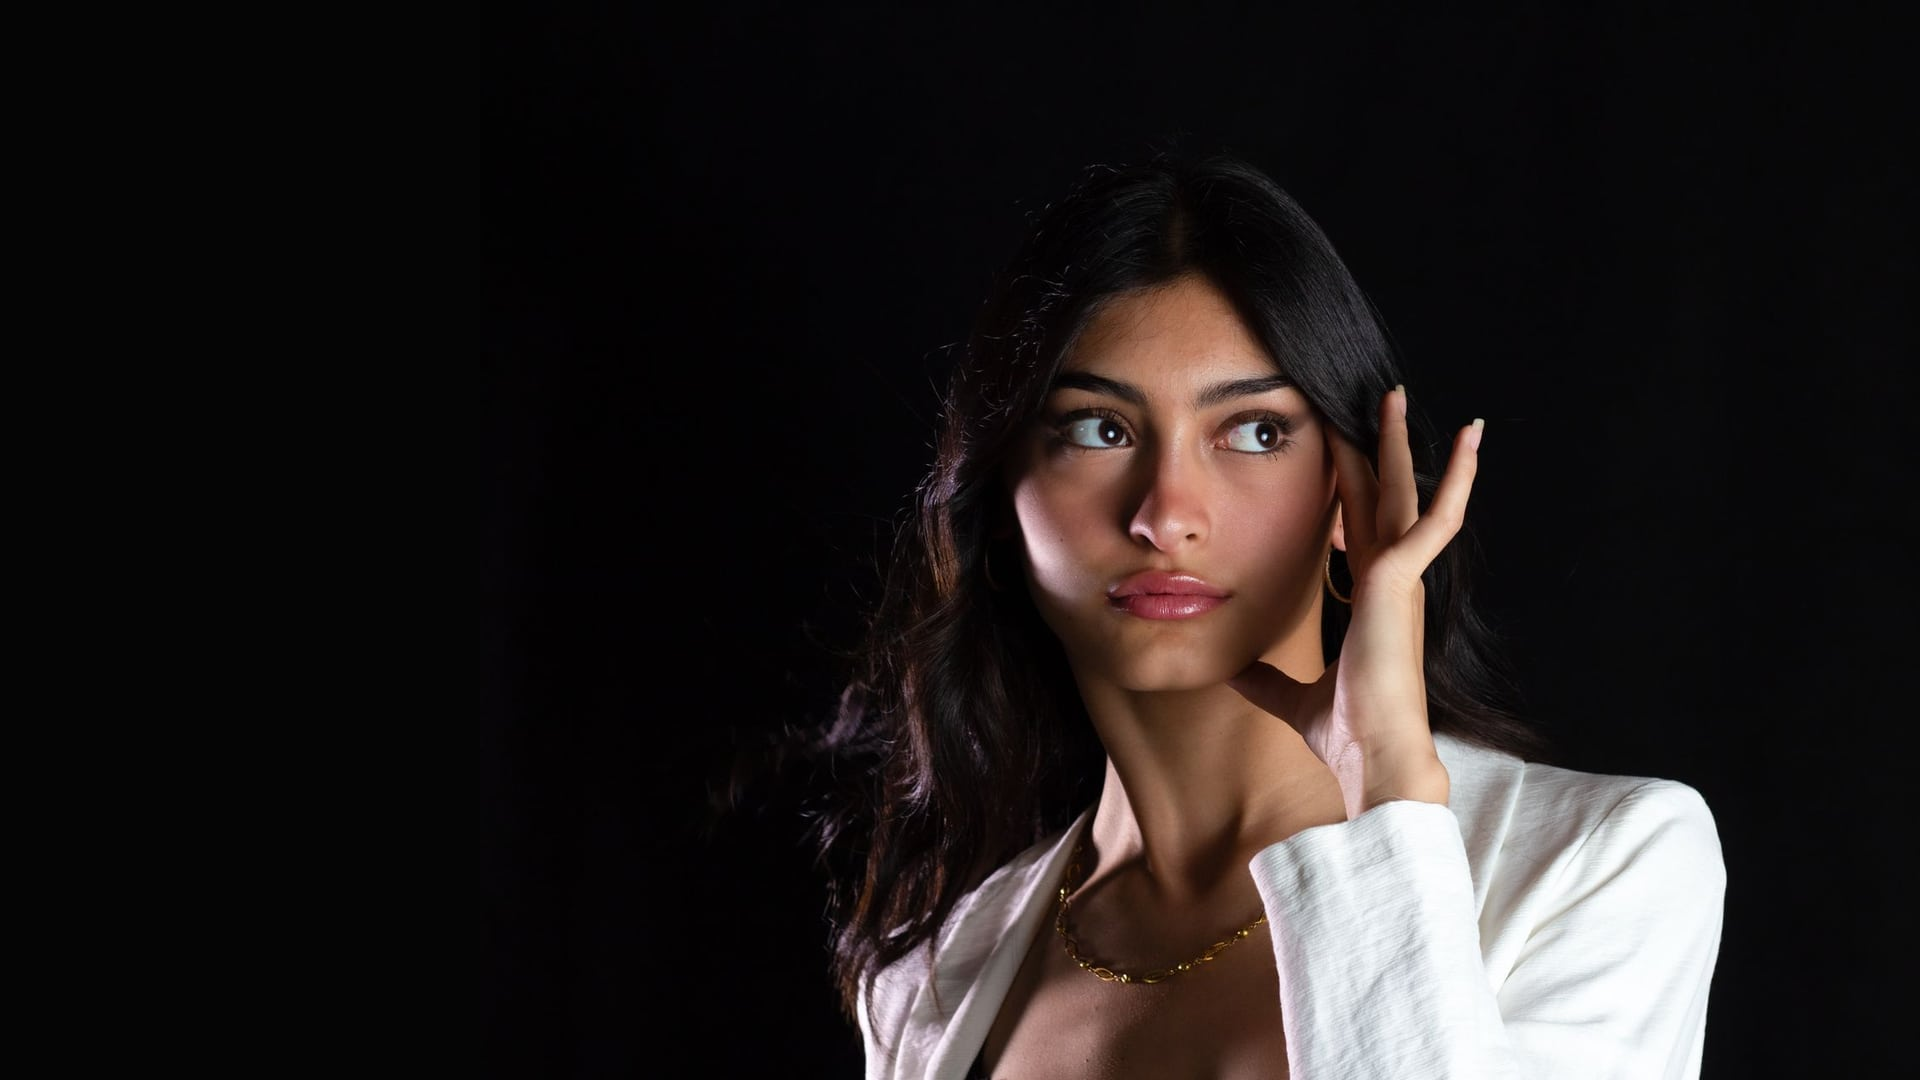
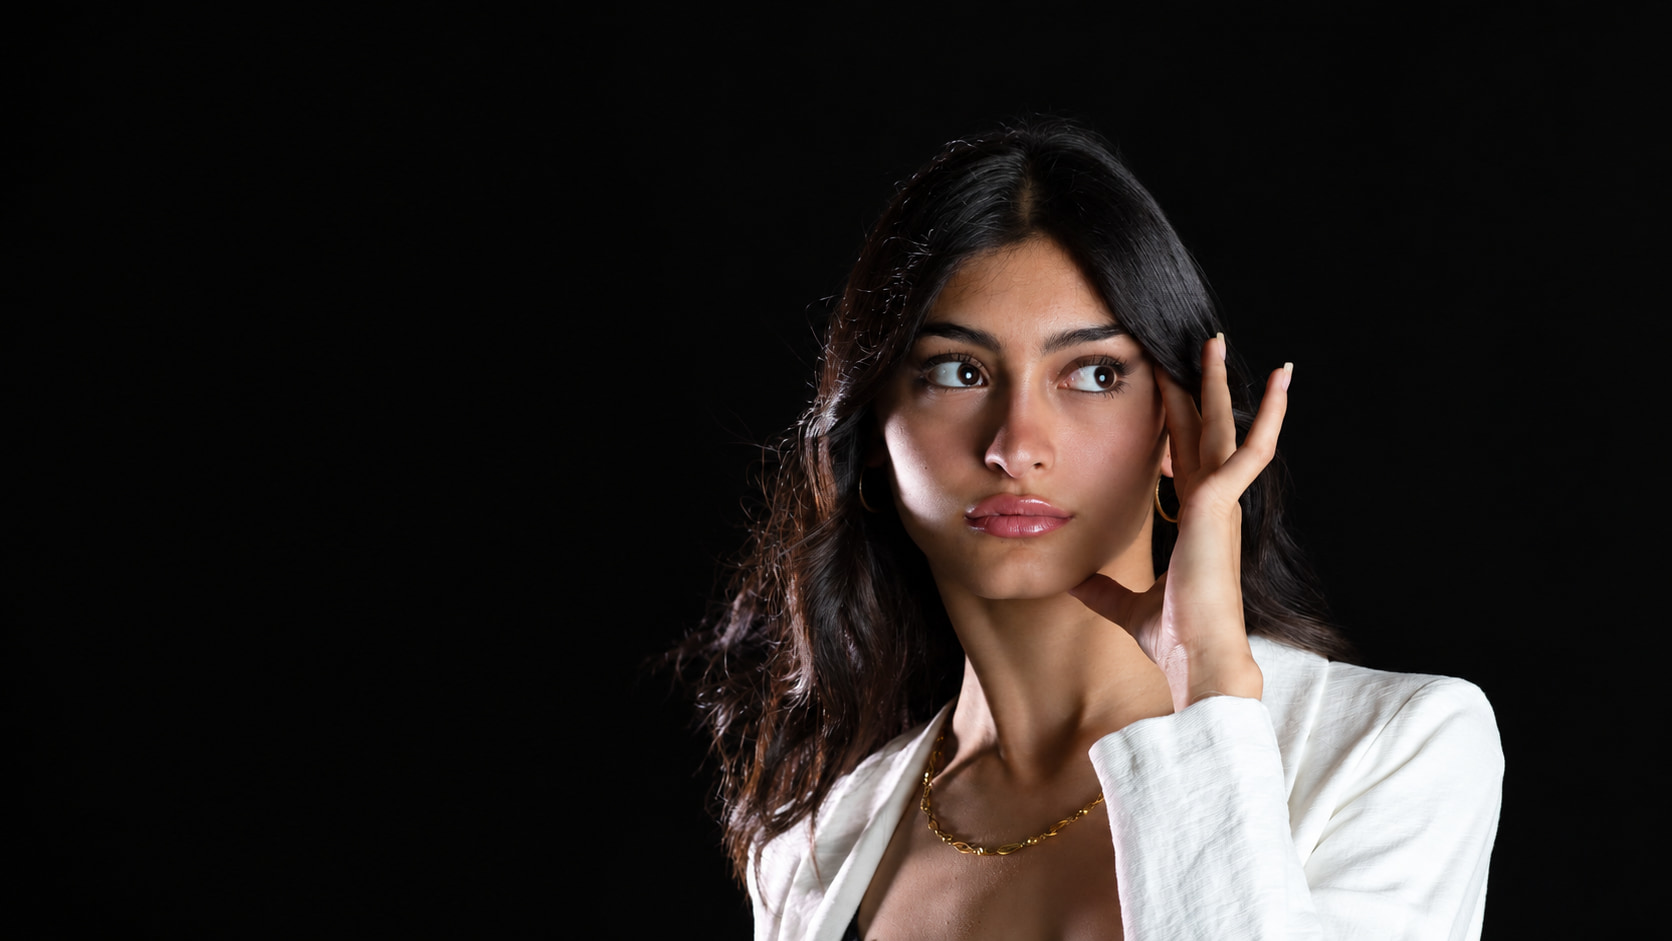
feat: refresh hero image and improve rendering quality
Add the source image and refreshed JPEG, render the hero with a static import
and higher image quality, and align metadata dimensions. Preserve the manual
asset when downloading the remaining photographs and document its origin.

diff --git a/app/page.tsx b/app/page.tsx
@@ -15,6 +15,7 @@ import { ActionContent, ButtonLink } from "@/components/ui";
 import { HomeMotion } from "@/components/home-motion";
 import { HomeFAQ } from "@/components/home-faq";
 import styles from "./home.module.css";
+import heroImage from "@/public/images/hero-salon.jpg";
 
 const heroTitle = `${site.hero.title.opening} ${site.hero.title.emphasis}`;
 export const metadata = pageMetadata(
@@ -48,10 +49,11 @@ export default function Home() {
         aria-label="Livre Beauty, salão e ateliê de beleza"
       >
         <Image
-          src="/images/hero-salon.jpg"
+          src={heroImage}
           alt="Retrato editorial com cabelo escuro e luz suave"
           fill
           preload
+          quality={90}
           sizes="(max-width: 767px) 160svh, calc(100vw - 48px)"
           className={styles.heroImage}
           data-hero-image

diff --git a/next.config.ts b/next.config.ts
@@ -1,6 +1,8 @@
 import type { NextConfig } from "next";
 
 const nextConfig: NextConfig = {
+  // 90 is reserved for the full-bleed hero, where 75 visibly softens skin texture.
+  images: { qualities: [75, 90] },
   experimental: { optimizePackageImports: ["@phosphor-icons/react", "@phosphor-icons/react/ssr"] },
 };
 

diff --git a/lib/metadata.ts b/lib/metadata.ts
@@ -22,8 +22,8 @@ export function pageMetadata(
       images: [
         {
           url: "/images/hero-salon.jpg",
-          width: 1920,
-          height: 1080,
+          width: 1672,
+          height: 941,
           alt: "Livre Beauty · beleza com liberdade",
         },
       ],

diff --git a/docs/assets.md b/docs/assets.md
@@ -59,7 +59,7 @@ A [licença oficial do Pexels](https://www.pexels.com/license/) permite uso grat
 
 ### Composição e reutilização
 
-O hero foi recortado em 1440 × 1080 e recebeu uma margem plana de 480 pixels à esquerda, com a mesma direção escura do fundo de estúdio. O arquivo final é **1920 × 1080**; a pessoa continua sendo a fotografia original. A margem cria área para o título. Retratos da equipe usam recorte 4:5; demais imagens preservam a proporção da foto.
+Em **7 de outubro de 2026**, `hero-salon.jpg` foi substituído por uma nova versão do retrato, gerada no OpenAI Playground e adicionada manualmente. A versão atual (gerada às 21h32, com fundo preto uniforme e sem a emenda da margem antiga) foi convertida do PNG para JPEG (qualidade 92, mozjpeg, croma 4:4:4, para não criar blocos no preto) em **1672 × 941**, com cerca de 142 KiB, e não é mais produzido por `scripts/download-assets.mjs`. Por isso, a frase "Nenhuma fotografia foi gerada por IA" acima não se aplica ao hero. O crédito Pexels permanece até a confirmação da origem da imagem. Retratos da equipe usam recorte 4:5; demais imagens preservam a proporção da foto.
 
 A repetição entre serviços e galeria é deliberada: `gallery-01.jpg`, `gallery-03.jpg`, `gallery-05.jpg` e `gallery-06.jpg` usam as fotos de seus serviços; `gallery-04.jpg` repete a referência finalizada; `gallery-07.jpg` repete o primeiro interior. Os dois interiores são da mesma série. Isso mantém continuidade e evita misturar muitos ambientes. Os nomes distintos permitem substituir cada uso futuramente.
 
